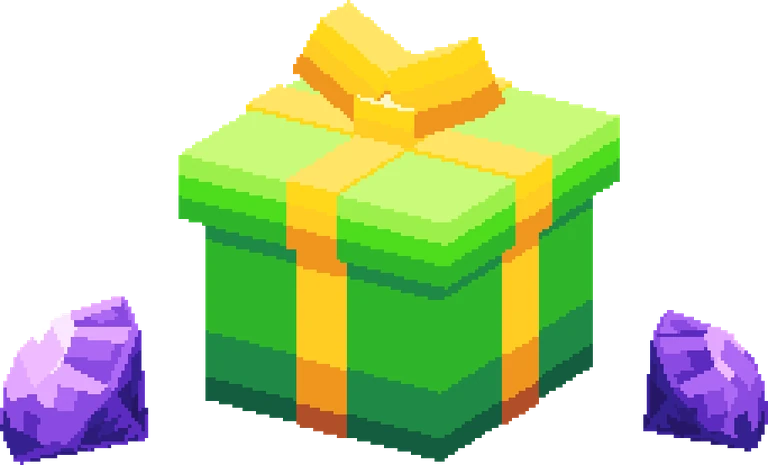
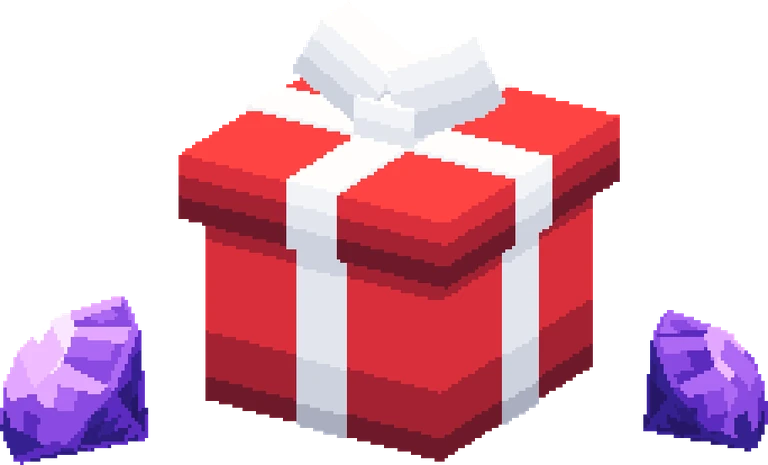
Bundles tile green with a red present and a white bow (petsmc T-1262, from JakeJxke/petsmc 484b07c33; Claude / cloud, store tidy)
Claude-Session: https://claude.ai/code/session_01XgodkhXNTaQtq3jrFyNhXV

diff --git a/index.html b/index.html
@@ -868,8 +868,8 @@ a.deal:hover { background: #ff62b3; }
   /* ------------------------------------------------------------ the sample catalogue (proposed prices from docs/design/monetization.md; the bundles are samples) */
   const PH = (slot, title, size, light) => ({ ph: slot, title, size, light });
   const CATS = [
-    // red with a green present (owner Axoh 2026-11-06 15:08, T-1260: "change the bundles thing to be red and make the present green")
-    { key: 'bundles', name: 'Bundles', sub: 'The best perks all in one', c: 'red', tile: 'bundles', g: 'gift', art: { src: 'img/bundles_gift.webp', slot: 'have' }, ends: '2026-11-30T08:00:00Z' },
+    // green with a red present and a white bow (owner Axoh 2026-11-06 15:13, T-1262: "make the present red, background green, and bow white")
+    { key: 'bundles', name: 'Bundles', sub: 'The best perks all in one', c: 'green', tile: 'bundles', g: 'gift', art: { src: 'img/bundles_gift.webp', slot: 'have' }, ends: '2026-11-30T08:00:00Z' },
     { key: 'gems', name: 'Gems', sub: 'Store currency', c: 'teal', tile: 'gems', g: 'gem', art: { src: 'img/gems_2500.webp', slot: 'have' } },
     { key: 'ranks', name: 'Ranks', sub: 'Show off with a shiny tag!', c: 'blue', tile: 'ranks', g: 'crown', art: { src: 'img/ranks.webp', slot: 'have' } },
     // T-1246 (owner Axoh 2026-11-06: "replace the pet pass with gem vault since we dont need it since its under pet club now"; the Pass is in the Club, T-1245)
